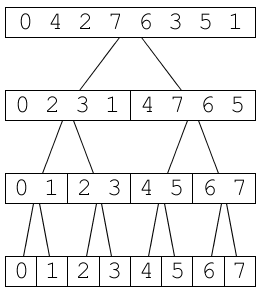
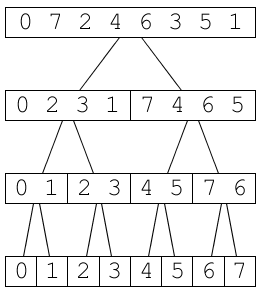
[Documentation] Adds quicksort introduction and modifies quicksort example images

diff --git a/doc/de/src/doc_de.tex b/doc/de/src/doc_de.tex
@@ -53,12 +53,13 @@ Der Insertion Sort Algorithmus ist ein leicht zu implementierendes und stabiles 
 \end{SCfigure}
 \clearpage
 \section{Quicksort}
+Der Quicksort Algorithmus (vom englischen \textit{quick}, also `schnell') ist ein rekursives Sortierverfahren. Es ist im Gegensatz zu Mergesort und Insertion Sort nicht stabil. Es arbeitet nach dem ``teilen und herrschen''-Prinzip (\textit{divide and conquer}). Das Grundprinzip von Quicksort besteht im Aufteilen einer Folge anhand eines Pivotelements. In unserem Fall ist das Pivotelement immer das mittlere Element. Nun werden alle Elemente die kleiner als das Pivotelements auf die linke Seite verschoben und alle Elemente die größer sind rechts davon. Dabei werden diese Elemente nicht (wie etwa bei Insertion Sort) sortiert eingefügt, sondern nur verschoben. Danach wird die Folge in zwei Teilfolgen aufgeteilt und der Prozess für beide Teilfolgen wiederholt. Nachdem alle Teilfolgen nur noch ein Element haben ist die komplette Folge sortiert.
 
 Im Durchschnitt kommt Quicksort mit $\mathcal{O}(n\log{}n)$ Vergleichen aus, im schlimmsten Fall $\mathcal{O}(n^2)$. In der Praxis ist Quicksort meist schneller als andere $\mathcal{O}(n\log{}n)$ Algorithmen. Auch sein sequentieller Speicherzugriff zusammen mit seiner sehr kurzen Schleife ist prädestiniert um von dem Prozessorcache zu profitieren.
 
 \paragraph{Beispiel} 
 \imagewrap{0.4}{graphs/quicksort.png}{Quicksort Beispiel}
-\textbf{Schritt 1:} Als Pivot wird der Mittelpunkt der Folge genommen, hier die \textit{7}. Alle Werte kleiner als des Pivots werden auf die linke Seite verschoben, alle Werte größer des Pivots auf die rechte Seite. Danach wird die Folge in der Mitte (nach der 7) partitioniert.
+\textbf{Schritt 1:} Als Pivot wird der Mittelpunkt der Folge genommen, hier die \textit{4}. Alle Werte kleiner als des Pivots werden auf die linke Seite verschoben, alle Werte größer des Pivots auf die rechte Seite. Danach wird die Folge in der Mitte partitioniert.
 
 \textbf{Schritt 2 und Schritt 3:} Für alle Partitionen wird Schritt 1 wiederholt bis jede Partition nur noch aus einem Element besteht.
 
